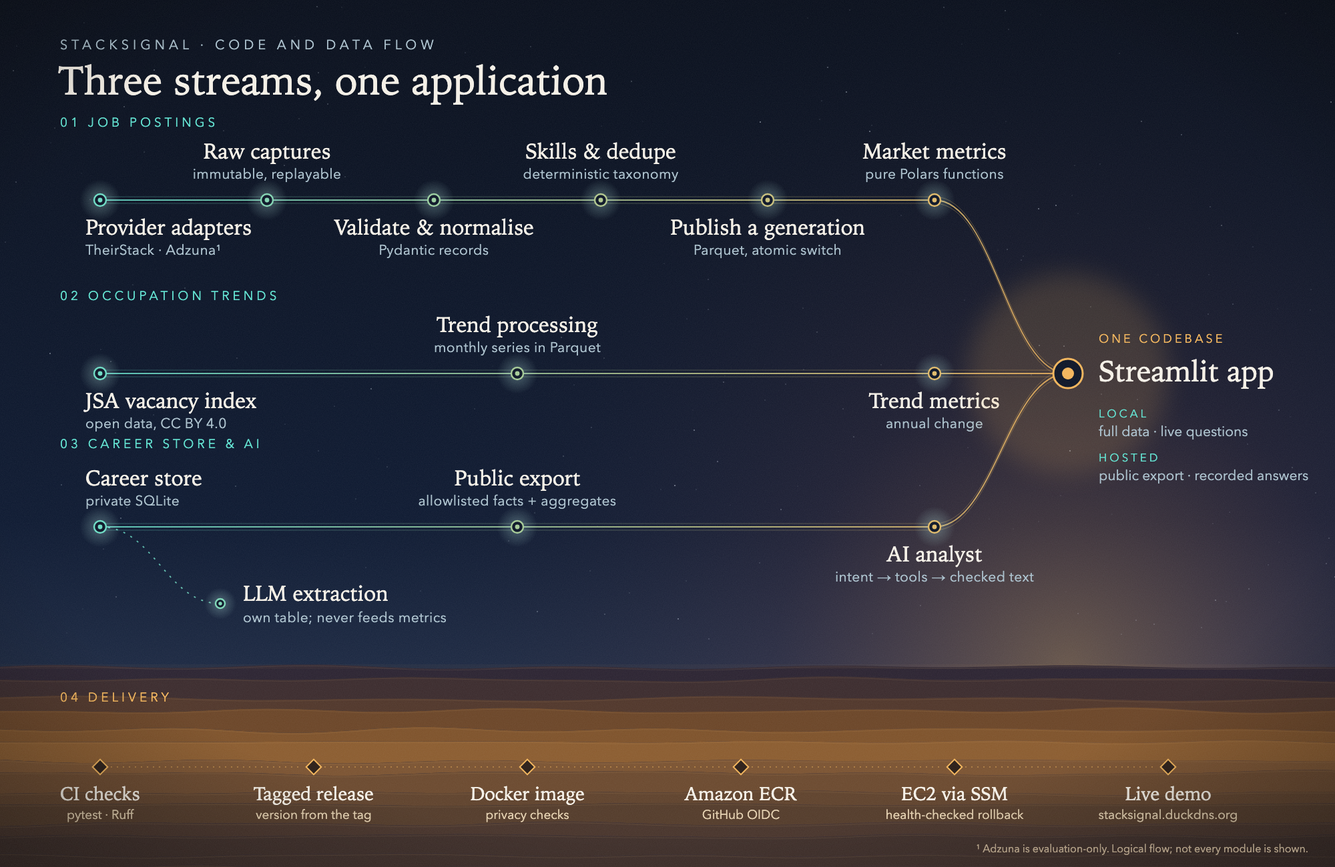
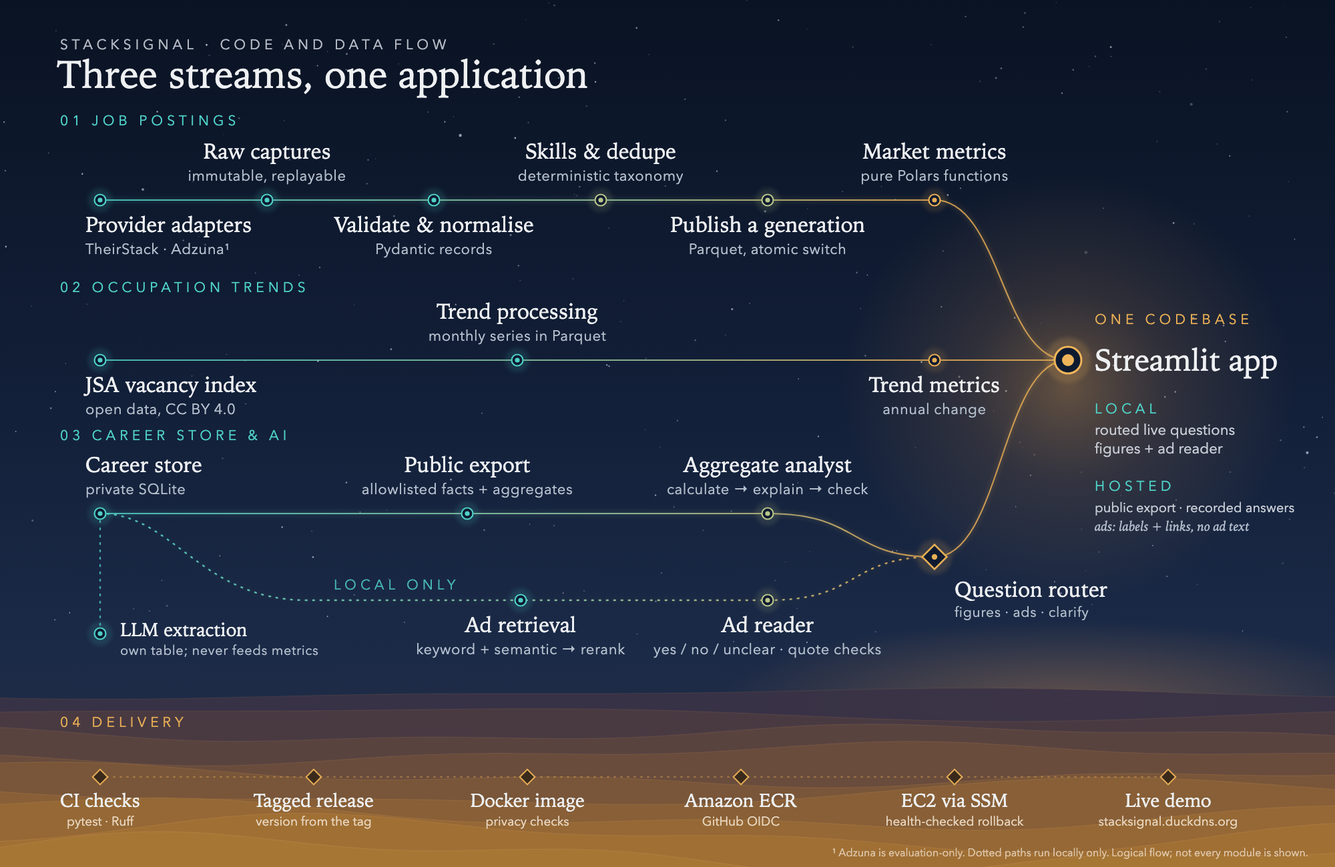
Show the question router and local ad reader in the flow illustration

diff --git a/README.md b/README.md
@@ -65,9 +65,9 @@ I built the checks to withhold these answers rather than show unsupported result
 
 ## Technical details
 
-![StackSignal data and deployment flow: job postings, occupation trends and the career store feed a Streamlit application, deployed through tagged releases to AWS.](assets/flow-signal.png)
+![StackSignal data and deployment flow: job postings, occupation trends and the career store feed a Streamlit application through a question router, deployed through tagged releases to AWS.](assets/flow-signal.png)
 
-This overview shows the main data and deployment paths. The aggregate analyst reads the public export; the separate local advertisement-retrieval path is described below and is not shown in the diagram.
+This overview shows the main data and deployment paths. A question router sends each question to the aggregate analyst, which reads the public export, or to the advertisement reader, which runs locally over a private retrieval index (dotted).
 
 ### Architecture and technologies
 
